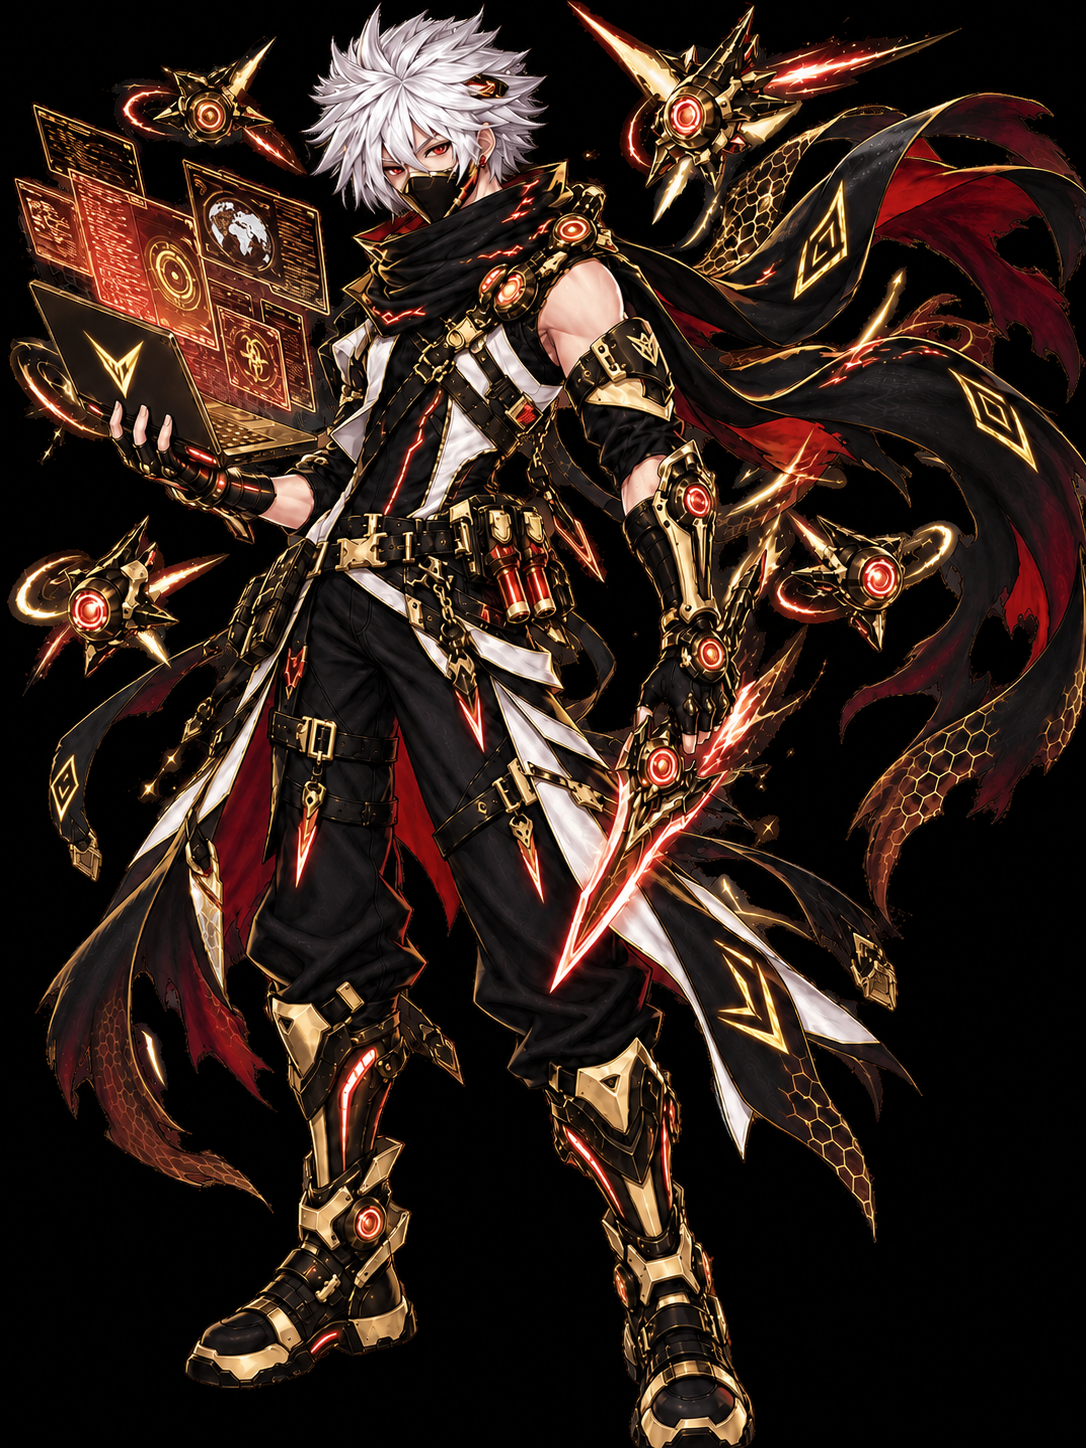
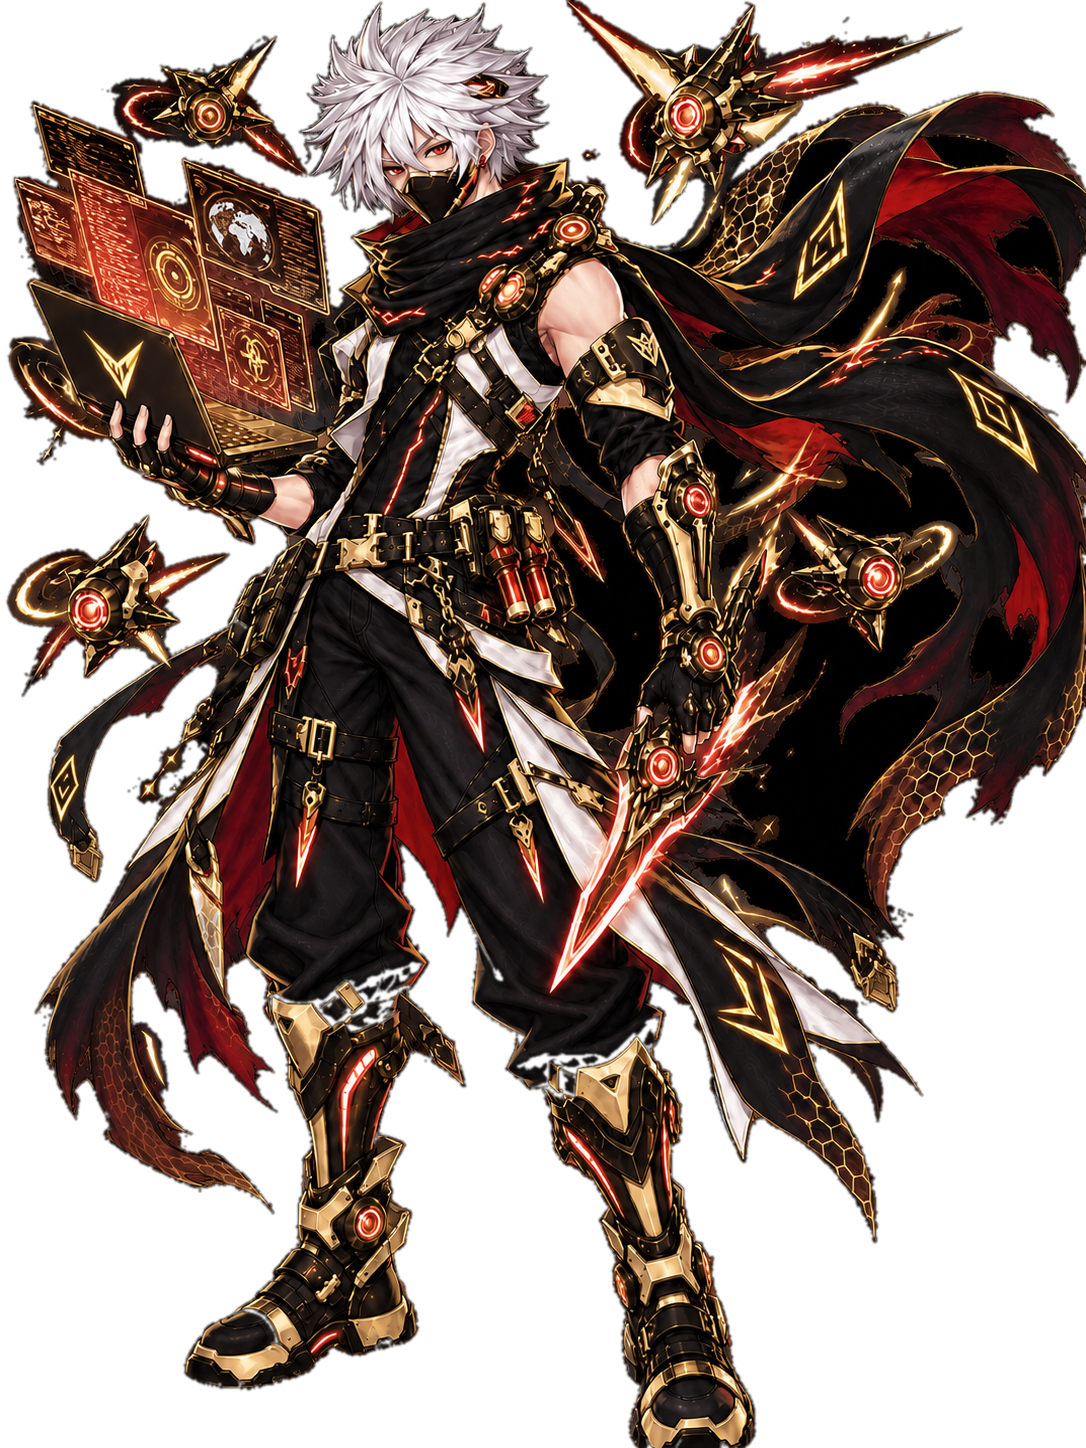
Fix opaque backgrounds blocking effects behind character portraits
Two separate bugs:
- character-portrait.png had no alpha channel at all (solid black baked
  in) — background-removed it via edge flood-fill and, this time,
  committed the transparent version to both assets/art/ and
  web/public/art/ so it actually sticks (an earlier fix only ever
  landed in a scratch /tmp file for the old static mockup).
- .cast-portrait's own CSS background was an opaque radial-gradient +
  var(--surface-3) fill sitting behind the (already-transparent) cast
  PNGs, blocking the page-wide aura/matrix-rain effects regardless of
  the image's own transparency. Set it to background:transparent.

Claude-Session: https://claude.ai/code/session_01PpDRBtQKzRj1UgAqV9JCKX

diff --git a/web/app/globals.css b/web/app/globals.css
@@ -652,7 +652,7 @@ button{font-family:inherit;}
   position:relative;
   z-index:0;
   aspect-ratio:3/4;border:1px solid var(--border);overflow:hidden;
-  background:radial-gradient(ellipse at 50% 26%,rgba(40,150,195,.28),transparent 65%),var(--surface-3);
+  background:transparent;
   transition:border-color .15s ease;
 }
 .cast-portrait::before{
